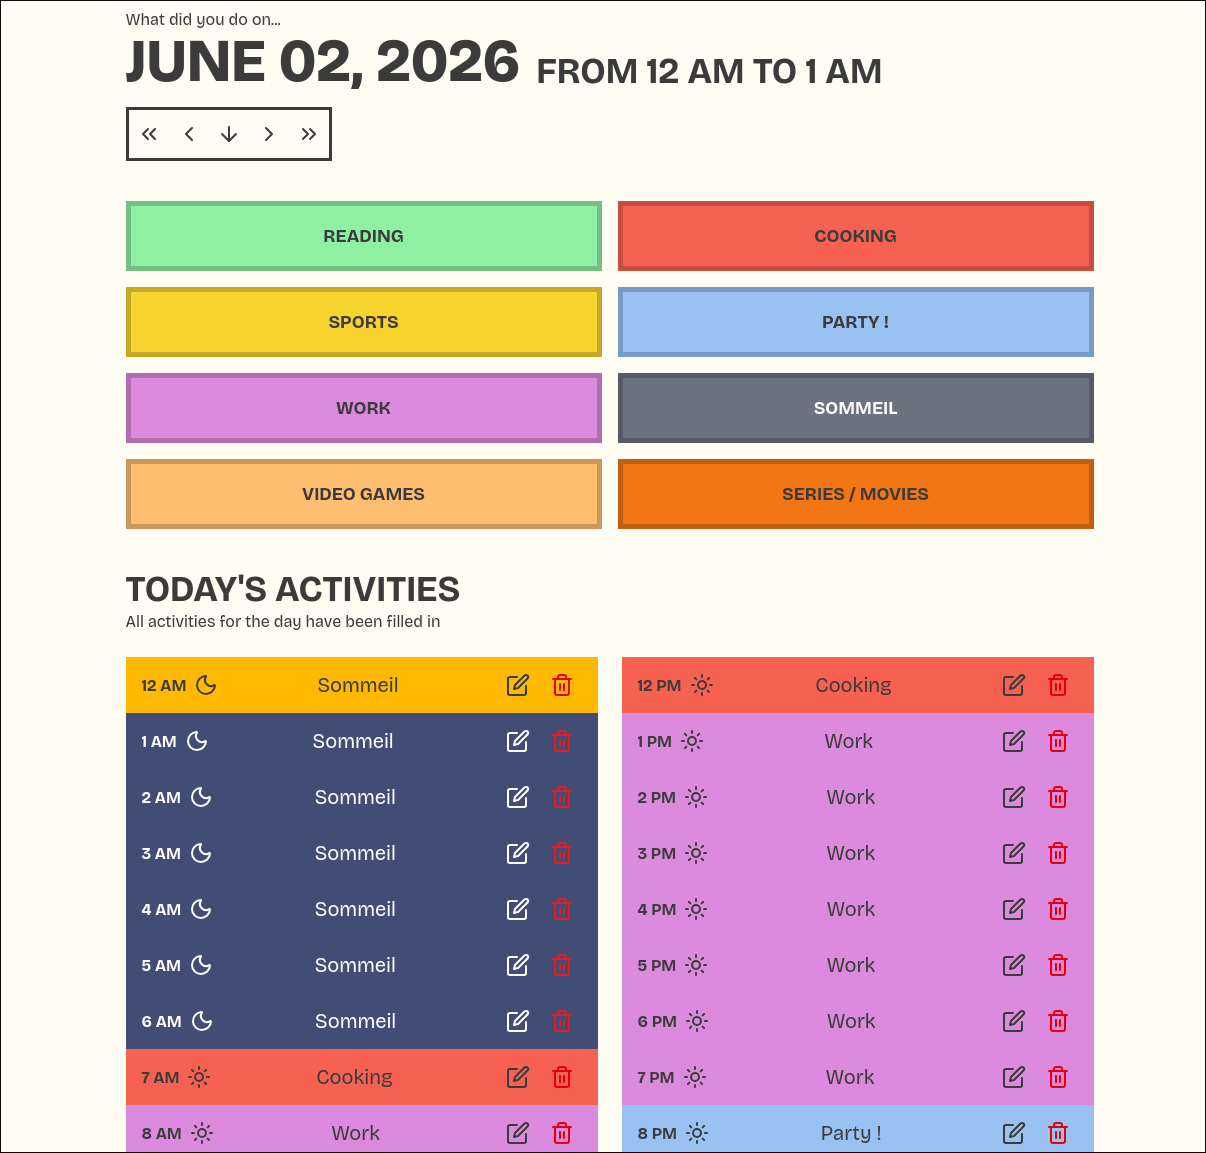
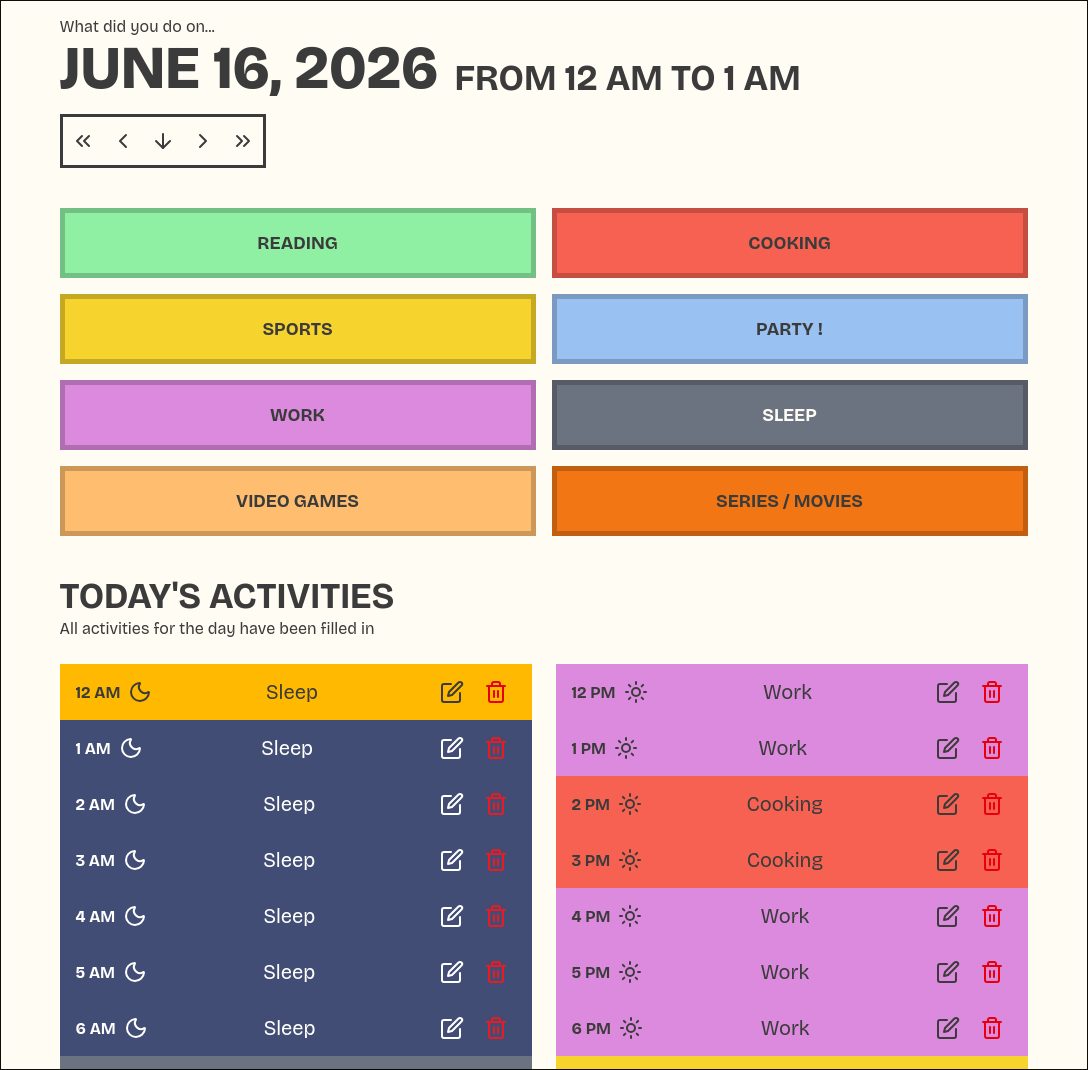
chore: updated readme screenshots

diff --git a/README.md b/README.md
@@ -14,6 +14,12 @@ Click on some buttons - _badadim-badaboum_ - your time is tracked.
 
 ![Activities view](activities_view.png)
 
+### Watch your statistics!
+
+![Number of activities per category stat](stat_1.png)
+
+![Activities over time](stat_2.png)
+
 ### Use the calendar view to get an overview
 
 Know at a glance which day is fully completed or not. It took me some time, but I also added the view Excel time-trackers love, you know: **the one with the colored cells**.